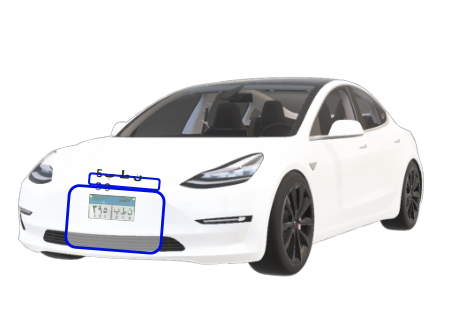
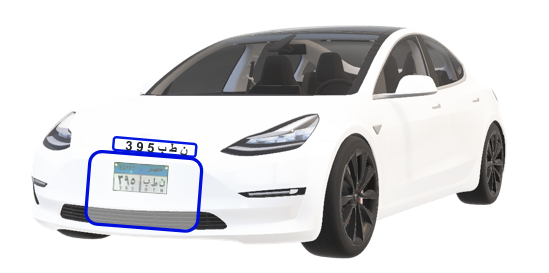
lpr content car images

diff --git a/app/_components/LprTest/LprContent.tsx b/app/_components/LprTest/LprContent.tsx
@@ -1,15 +1,54 @@
-import React, { useState } from "react";
-import ScrollableContent from "./ScrollableContent";
+import React, { useEffect, useRef, useState } from "react";
+import LprContentCaptions from "./ScrollableContent";
 import { v4 } from "uuid";
+import Image from "next/image";
 
 const LprContent = () => {
   const [image, setImage] = useState<string>(content[0].image);
+  const elementRef = useRef<HTMLDivElement>(null); // Specify the type of elementRef
+  const [isActive, setIsActive] = useState(false);
+
+  const changeImageHandler = (image: string) => setImage(image);
+
+  useEffect(() => {
+    const handleScroll = () => {
+      const element = elementRef.current;
+      if (!element) return; // Guard clause to handle null or undefined element
+
+      const elementRect = element.getBoundingClientRect();
+      const viewportHeight = window.innerHeight;
+      const elementTop = elementRect.top;
+
+      // Calculate the top 20% of the viewport
+      const top20Percent = viewportHeight * 0.2;
+
+      // Check if the top edge of the element is within the top 20% of the viewport
+      const isTopInView = elementTop < top20Percent;
+
+      setIsActive(isTopInView);
+    };
+
+    window.addEventListener("scroll", handleScroll);
+    return () => {
+      window.removeEventListener("scroll", handleScroll);
+    };
+  }, []);
 
   return (
-    <div className=" lprContent">
-      {content.map((content) => (
-        <ScrollableContent key={v4()} data={content} onActive={setImage} />
-      ))}
+    <div className={`lprContent ${isActive ? "active" : ""}`} ref={elementRef}>
+      <div className="row">
+        <div className="col-md-5">
+          {content.map((content) => (
+            <LprContentCaptions key={v4()} data={content} onActive={changeImageHandler} />
+          ))}
+        </div>
+
+        <div className="col-md-7">
+          <div className="lprContent_image">
+            <Image fill src={image} alt="" data-aos="fade" />
+          </div>
+        </div>
+      </div>
     </div>
   );
 };
@@ -29,28 +68,27 @@ const content = [
     title: "Low-Resolution Image Handling",
     description:
       "Excels in processing low-resolution images, enabling accurate recognition and efficient data capture even when image quality is limited. ",
-    image: "/images/lprcontent/blurydetection.png",
+    image: "/images/lprcontent/lowresolution.png",
   },
   {
     smallTitle: "Swift Identification on the Go",
     title: "Fast-Moving Vehicle Detection",
-    description:
-      "Ensures precise recognition and rapid identification even at very high speeds.",
-    image: "/images/lprcontent/blurydetection.png",
+    description: "Ensures precise recognition and rapid identification even at very high speeds.",
+    image: "/images/lprcontent/fastmoving.png",
   },
   {
     smallTitle: "Secure in The Dark",
     title: "Low-Light Environment Detection",
     description:
       "Ability to thrive in low-light or dark environments, providing reliable recognition regardless of lighting conditions.",
-    image: "/images/lprcontent/blurydetection.png",
+    image: "/images/lprcontent/lowlight.png",
   },
   {
     smallTitle: "Adaptable to Varied Layouts",
     title: "Dual Row Plate Recognition",
     description:
       "Accurately recognizes license plates displayed in two rows and caters to diverse plate layouts",
-    image: "/images/lprcontent/blurydetection.png",
+    image: "/images/lprcontent/angle.png",
   },
   {
     smallTitle: "Accurate at Any Plate Position",
@@ -64,6 +102,6 @@ const content = [
     title: "Multi Vehicle Detection",
     description:
       "Efficiently identifies and distinguishes license plates in high-traffic scenarios",
-    image: "/images/lprcontent/blurydetection.png",
+    image: "/images/lprcontent/angle.png",
   },
 ];

diff --git a/app/_components/LprTest/ScrollableContent.tsx b/app/_components/LprTest/ScrollableContent.tsx
@@ -1,23 +1,23 @@
 import useOnScreen from "@/app/_hooks/useOnScreen";
-import Image from "next/image";
-import React, { useRef } from "react";
+import React, { useEffect, useRef } from "react";
 
-const ScrollableContent = (props: IScrollableContentProps) => {
+const LprContentCaptions = (props: IScrollableContentProps) => {
   const ref = useRef<HTMLDivElement>(null);
   const isVisible = useOnScreen(ref);
 
+  useEffect(() => {
+    if (isVisible) {
+      props.onActive(props.data.image);
+    }
+  }, [isVisible]);
+
   return (
-    <div ref={ref} className={`scrollableContent ${isVisible ? "active" : ""}`}>
-      <div className="captions">
-        <h1>{props.data.title}</h1>
-        <h3>{props.data.smallTitle}</h3>
-        <p>{props.data.description}</p>
-      </div>
-      <div className="lprContent_image">
-        <Image fill src={props.data.image} alt="" />
-      </div>
+    <div ref={ref} className={`lprContentCaptions ${isVisible ? "active" : ""}`}>
+      <h1>{props.data.title}</h1>
+      <h3>{props.data.smallTitle}</h3>
+      <p>{props.data.description}</p>
     </div>
   );
 };
 
-export default ScrollableContent;
+export default LprContentCaptions;

diff --git a/app/_hooks/useOnScreen.ts b/app/_hooks/useOnScreen.ts
@@ -9,16 +9,16 @@ export default function useOnScreen(ref: RefObject<HTMLElement>) {
       if (!element) return;
 
       const viewportHeight = window.innerHeight;
-      const topThreshold = viewportHeight * 0.8; // Top 30% of viewport
+      const topThreshold = viewportHeight * 0.1;
+      const bottomThreshold = viewportHeight * 0.6;
 
       const boundingClientRect = element.getBoundingClientRect();
       const elementTop = boundingClientRect.top;
-      const elementBottom = boundingClientRect.bottom;
 
-      const isInTop30Percent =
-        elementTop >= 0 && elementTop < topThreshold && elementBottom > 0;
+      // Calculate if the top edge of the element is within the middle 50% of the viewport
+      const isInMiddle50Percent = elementTop > topThreshold && elementTop < bottomThreshold;
 
-      setIntersecting(isInTop30Percent);
+      setIntersecting(isInMiddle50Percent);
     };
 
     handleScroll(); // Check initially

diff --git a/app/_components/LprTest/LprTest.css b/app/_components/LprTest/LprTest.css
@@ -126,32 +126,29 @@
   position: relative;
 }
 
-.scrollableContent {
-  height: 80vh;
-  position: relative;
+.lprContentCaptions {
+  height: 50vh;
   display: flex;
-  /* align-items: center; */
-  gap: 10vw;
+  flex-direction: column;
+  justify-content: center;
+  gap: 10px;
+  color: rgb(167, 166, 166);
+  transition: 0.5s ease-in-out;
 }
 
-.scrollableContent .captions {
-  width: 40%;
-  color: rgb(167, 166, 166);
-  transition: 0.3s ease-in-out;
+.lprContentCaptions.active {
+  color: #000;
 }
 
 .lprContent_image {
   position: relative;
-  height: 100%;
-  width: 60%;
-  opacity: 0;
-  transition: 0.5s ease-in-out;
+  height: 60vh;
+  width: 40vw;
+  margin-left: auto;
+  transition: 1s ease-in-out;
 }
 
-.scrollableContent.active .captions {
-  color: #000;
-}
-
-.scrollableContent.active .lprContent_image {
-  opacity: 1;
+.lprContent.active .lprContent_image {
+  position: sticky;
+  top: 20vh;
 }

diff --git a/app/(routes)/lpr-test/page.tsx b/app/(routes)/lpr-test/page.tsx
@@ -4,7 +4,7 @@ import React from "react";
 
 const Page = () => {
   return (
-    <div className="mt-3 mb-3 bg-light">
+    <div className="mt-3 mb-3">
       <div className="container">
         <LprTest />
       </div>
